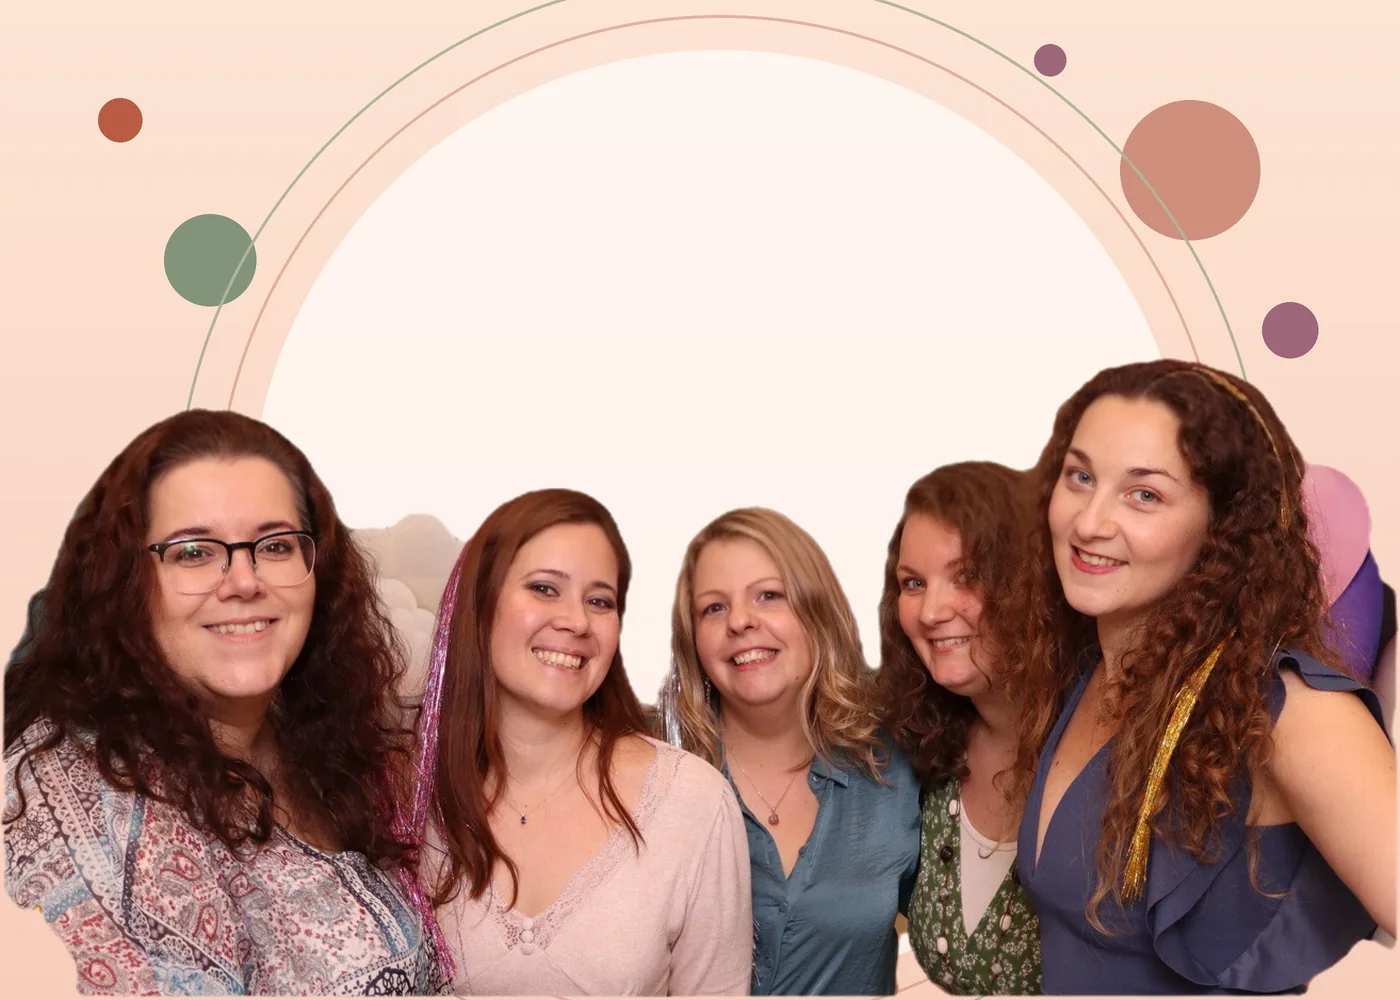
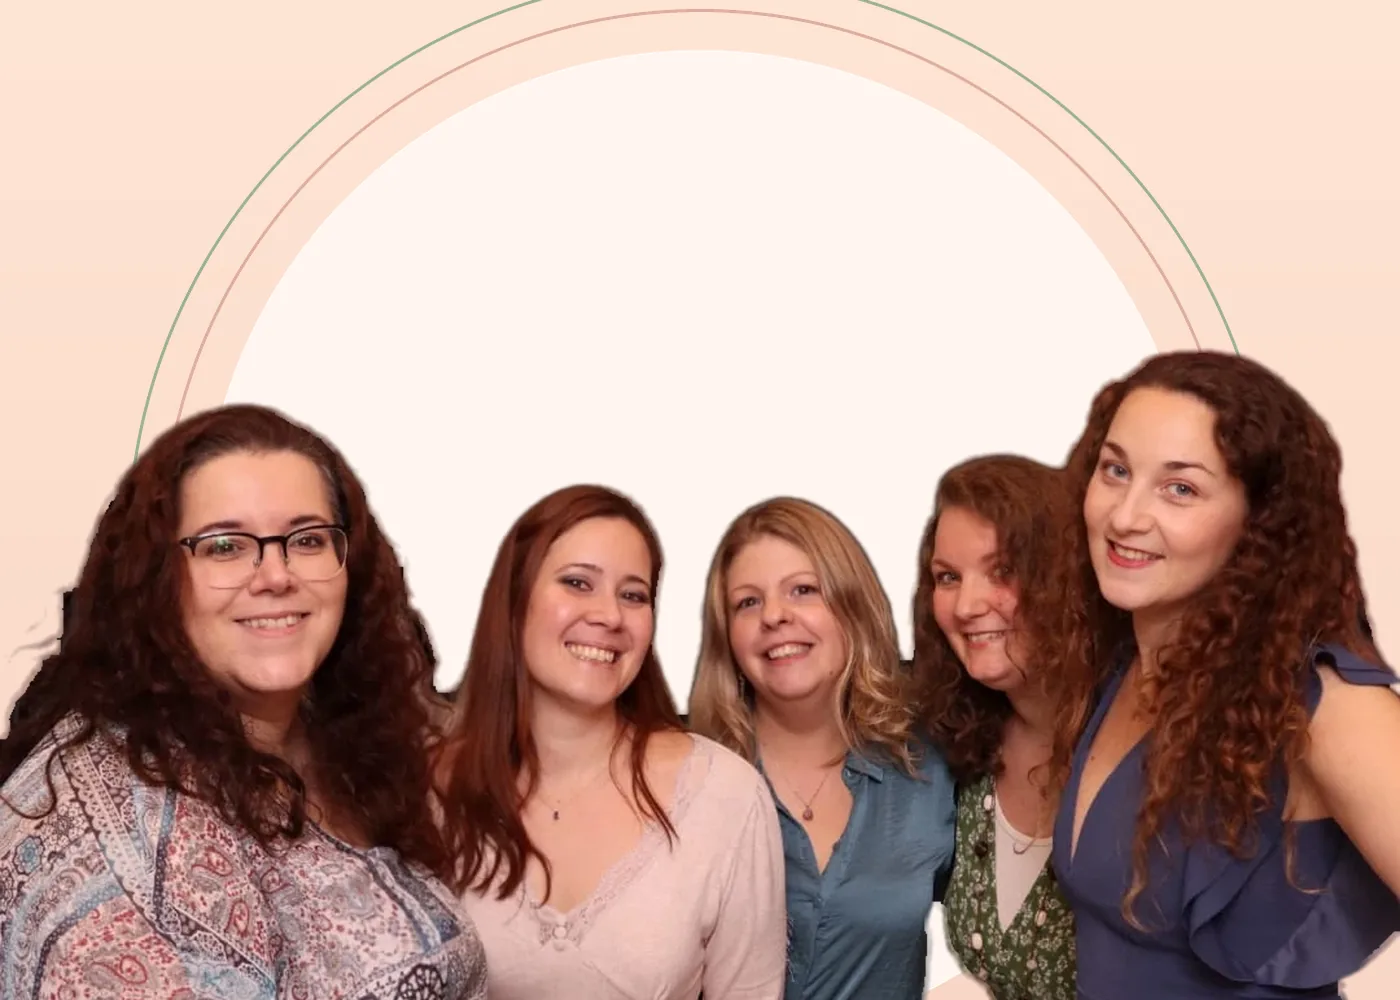
Accueil : nouvelle photo des fondatrices, sans les petits ronds décoratifs
Claude-Session: https://claude.ai/code/session_01Gdcs2eFGGQZQX3wpNjea7X

diff --git a/src/assets/accueil/README.md b/src/assets/accueil/README.md
@@ -1,5 +1,5 @@
 # Photos de la page d'accueil
 
-- `fondatrices.webp` : hero. Photo détourée des cinq fondatrices (fournie par le club) composée sur un fond aux couleurs de la charte ; le texte « Plus qu'un club… » est du vrai texte posé par-dessus dans `Index.tsx`.
+- `fondatrices.webp` : hero. Photo détourée des cinq fondatrices (fournie par le club) composée sur un fond aux couleurs de la charte (cercle et deux arcs, sans petits ronds depuis le 03/11 ; nouvelle photo fournie le 03/11, détourée de son fond noir) ; le texte « Plus qu'un club… » est du vrai texte posé par-dessus dans `Index.tsx`.
 - `groupe.webp` : section « Notre histoire » (photo des cinq fondatrices fournie par le club, 4:3 ; ne plus la recadrer en portrait : les deux femmes aux extrémités seraient coupées).
 - `papotages.webp`, `creatif.webp`, `business.webp` : cartes des trois espaces, photos libres de droits (voir `../CREDITS.md`) ; à remplacer par de vraies photos d'ateliers du club quand elles seront disponibles (même nom de fichier, ~1200 × 700 px).
